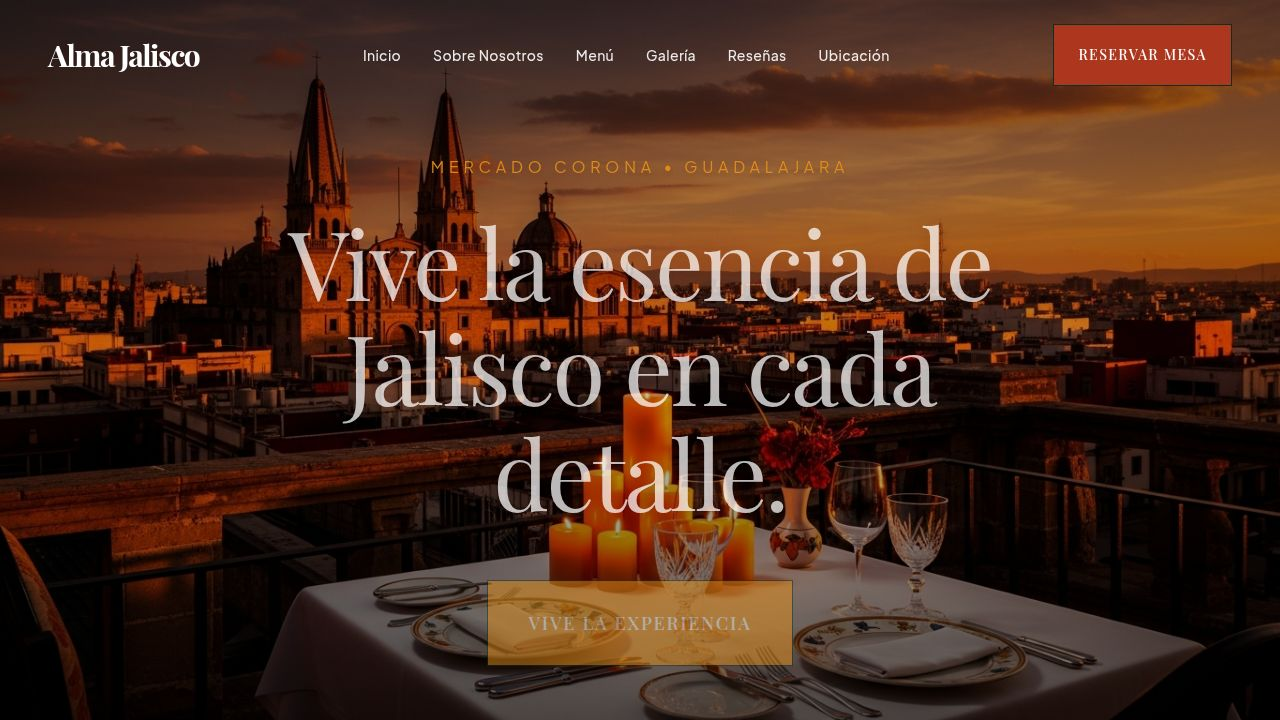
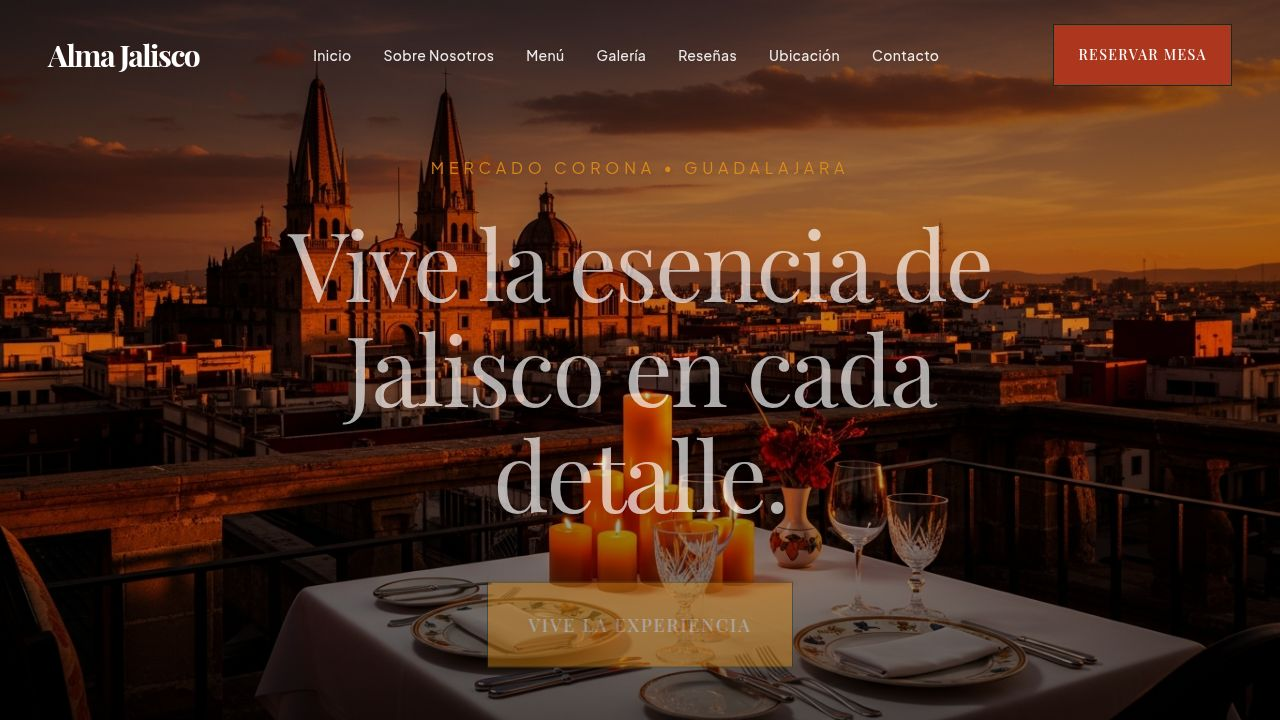
Add contact form and update footer with academic information
Introduce a new contact form component and integrate it into the Home page. Update the footer section with specific academic details, including a logo and personal information.

Replit-Commit-Author: Agent
Replit-Commit-Session-Id: 6e3af9af-5038-4df1-bdf2-1480c25867f8
Replit-Commit-Checkpoint-Type: full_checkpoint
Replit-Commit-Event-Id: d3bfc021-1e28-4e5c-84e8-2beae3451be5
Replit-Commit-Screenshot-Url: https://storage.googleapis.com/screenshot-production-us-central1/0845ae4b-4a84-4fce-b010-4a923b7fe8da/6e3af9af-5038-4df1-bdf2-1480c25867f8/w2JyU6V
Replit-Helium-Checkpoint-Created: true

diff --git a/artifacts/alma-jalisco/src/components/ContactForm.tsx b/artifacts/alma-jalisco/src/components/ContactForm.tsx
@@ -1,0 +1,134 @@
+import React, { useState } from 'react';
+import { motion } from 'framer-motion';
+import { Button } from '@/components/ui/button';
+import { Input } from '@/components/ui/input';
+import { Textarea } from '@/components/ui/textarea';
+import { Label } from '@/components/ui/label';
+import { useToast } from '@/hooks/use-toast';
+import { Send, Mail } from 'lucide-react';
+
+export default function ContactForm() {
+  const { toast } = useToast();
+  const [form, setForm] = useState({ nombre: '', email: '', asunto: '', mensaje: '' });
+  const [sending, setSending] = useState(false);
+
+  const handleChange = (e: React.ChangeEvent<HTMLInputElement | HTMLTextAreaElement>) => {
+    setForm({ ...form, [e.target.name]: e.target.value });
+  };
+
+  const handleSubmit = (e: React.FormEvent) => {
+    e.preventDefault();
+    setSending(true);
+    setTimeout(() => {
+      toast({
+        title: '¡Mensaje enviado!',
+        description: `Gracias ${form.nombre}, te responderemos pronto a ${form.email}.`,
+      });
+      setForm({ nombre: '', email: '', asunto: '', mensaje: '' });
+      setSending(false);
+    }, 600);
+  };
+
+  return (
+    <section id="contacto" className="py-32 bg-secondary/30">
+      <div className="container mx-auto px-6 md:px-12">
+        <motion.div
+          initial={{ opacity: 0, y: 30 }}
+          whileInView={{ opacity: 1, y: 0 }}
+          viewport={{ once: true }}
+          transition={{ duration: 0.7 }}
+          className="text-center mb-16"
+        >
+          <p className="text-accent uppercase tracking-[0.3em] text-xs mb-4">Escríbenos</p>
+          <h2 className="text-5xl md:text-6xl font-serif text-primary mb-4">Contáctanos</h2>
+          <p className="text-muted-foreground font-light max-w-2xl mx-auto">
+            ¿Tienes alguna duda, sugerencia o deseas organizar un evento privado? Déjanos un mensaje y nuestro equipo te atenderá personalmente.
+          </p>
+        </motion.div>
+
+        <motion.form
+          onSubmit={handleSubmit}
+          initial={{ opacity: 0, y: 30 }}
+          whileInView={{ opacity: 1, y: 0 }}
+          viewport={{ once: true }}
+          transition={{ duration: 0.7, delay: 0.1 }}
+          className="max-w-2xl mx-auto bg-background rounded-2xl shadow-lg border border-border p-8 md:p-12 space-y-6"
+        >
+          <div className="grid md:grid-cols-2 gap-6">
+            <div className="space-y-2">
+              <Label htmlFor="nombre" className="text-primary font-light tracking-wide">Nombre completo</Label>
+              <Input
+                id="nombre"
+                name="nombre"
+                required
+                value={form.nombre}
+                onChange={handleChange}
+                placeholder="Tu nombre"
+                className="bg-secondary/40 border-border focus-visible:ring-accent"
+              />
+            </div>
+            <div className="space-y-2">
+              <Label htmlFor="email" className="text-primary font-light tracking-wide">Correo electrónico</Label>
+              <Input
+                id="email"
+                name="email"
+                type="email"
+                required
+                value={form.email}
+                onChange={handleChange}
+                placeholder="[email redacted]"
+                className="bg-secondary/40 border-border focus-visible:ring-accent"
+              />
+            </div>
+          </div>
+
+          <div className="space-y-2">
+            <Label htmlFor="asunto" className="text-primary font-light tracking-wide">Asunto</Label>
+            <Input
+              id="asunto"
+              name="asunto"
+              required
+              value={form.asunto}
+              onChange={handleChange}
+              placeholder="¿De qué quieres hablarnos?"
+              className="bg-secondary/40 border-border focus-visible:ring-accent"
+            />
+          </div>
+
+          <div className="space-y-2">
+            <Label htmlFor="mensaje" className="text-primary font-light tracking-wide">Mensaje</Label>
+            <Textarea
+              id="mensaje"
+              name="mensaje"
+              required
+              rows={5}
+              value={form.mensaje}
+              onChange={handleChange}
+              placeholder="Cuéntanos los detalles..."
+              className="bg-secondary/40 border-border focus-visible:ring-accent resize-none"
+            />
+          </div>
+
+          <div className="flex flex-col sm:flex-row items-center justify-between gap-4 pt-2">
+            <p className="text-xs text-muted-foreground font-light flex items-center gap-2">
+              <Mail className="w-3.5 h-3.5" />
+              También puedes escribirnos a [email redacted]
+            </p>
+            <Button
+              type="submit"
+              disabled={sending}
+              className="bg-primary hover:bg-primary/90 text-primary-foreground tracking-widest text-xs uppercase px-8 py-6"
+            >
+              {sending ? 'Enviando...' : (
+                <>
+                  Enviar mensaje
+                  <Send className="w-4 h-4 ml-2" />
+                </>
+              )}
+            </Button>
+          </div>
+        </motion.form>
+      </div>
+    </section>
+  );
+}

diff --git a/artifacts/alma-jalisco/src/pages/Home.tsx b/artifacts/alma-jalisco/src/pages/Home.tsx
@@ -15,6 +15,8 @@ import {
   GlassWater
 } from 'lucide-react';
 import ReservationModal from '@/components/ReservationModal';
+import ContactForm from '@/components/ContactForm';
+import cuceiLogo from '@/assets/images/cucei.svg';
 
 const menuItems = [
   {
@@ -115,6 +117,7 @@ export default function Home() {
     { name: 'Galería', href: '#galeria' },
     { name: 'Reseñas', href: '#resenas' },
     { name: 'Ubicación', href: '#ubicacion' },
+    { name: 'Contacto', href: '#contacto' },
   ];
 
   return (
@@ -489,6 +492,8 @@ export default function Home() {
         </div>
       </section>
 
+      <ContactForm />
+
       {/* Footer */}
       <footer className="bg-background border-t border-border pt-20 pb-10">
         <div className="container mx-auto px-6 md:px-12">
@@ -534,6 +539,39 @@ export default function Home() {
             
           </div>
           
+          {/* Créditos académicos - CUCEI */}
+          <div className="border-t border-border pt-10 mb-8">
+            <div className="flex flex-col md:flex-row items-center justify-center gap-6 md:gap-10 text-center md:text-left">
+              <a
+                href="https://www.cucei.udg.mx/"
+                target="_blank"
+                rel="noopener noreferrer"
+                className="shrink-0 hover:opacity-80 transition-opacity"
+                aria-label="CUCEI - Universidad de Guadalajara"
+              >
+                <img
+                  src={cuceiLogo}
+                  alt="Escudo CUCEI"
+                  className="h-20 w-auto"
+                />
+              </a>
+              <div className="space-y-1">
+                <p className="text-sm font-serif text-primary tracking-wide">
+                  Leopoldo Alejandro Rojas Vega
+                </p>
+                <p className="text-xs text-muted-foreground font-light">
+                  Código: 218519062 · Ingeniería en Informática
+                </p>
+                <p className="text-xs text-muted-foreground font-light">
+                  Desarrollo de Aplicaciones Web en la Nube y Móviles
+                </p>
+                <p className="text-xs text-accent font-light tracking-widest uppercase pt-1">
+                  CUCEI · Universidad de Guadalajara
+                </p>
+              </div>
+            </div>
+          </div>
+
           <div className="border-t border-border pt-8 flex flex-col md:flex-row items-center justify-between gap-4 text-xs text-muted-foreground font-light">
             <p>&copy; {new Date().getFullYear()} Alma Jalisco. Todos los derechos reservados.</p>
             <p>Hecho con pasión en Guadalajara, Jalisco.</p>